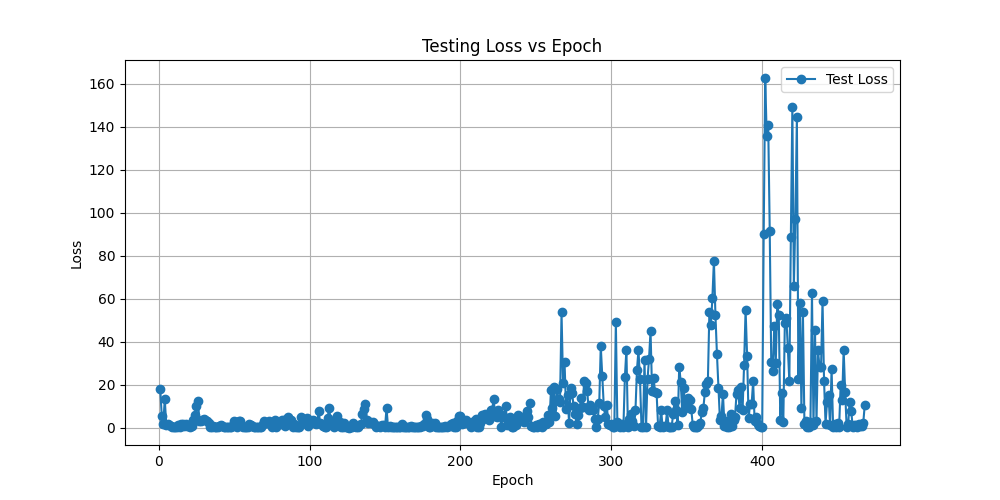
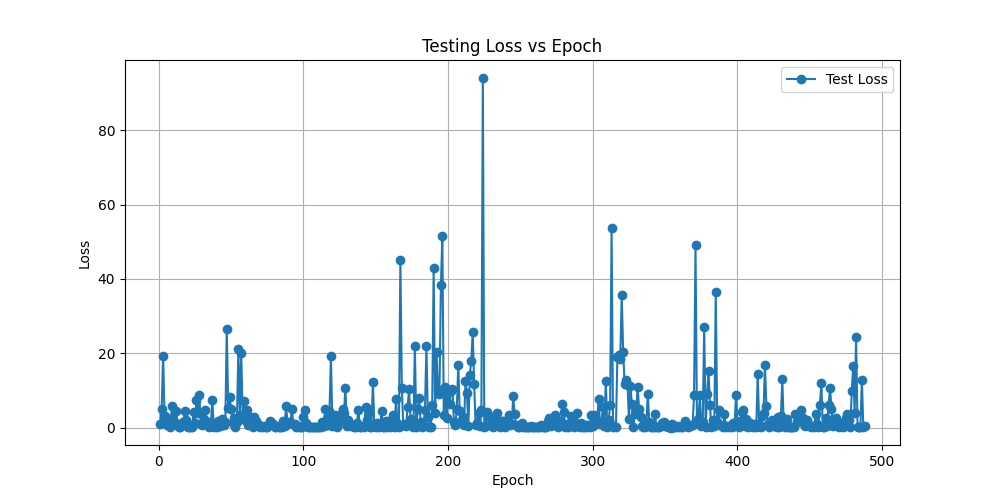
fix normalization & data reading issues

diff --git a/core/model/DenseRMoK.py b/core/model/DenseRMoK.py
@@ -52,17 +52,51 @@ class RevIN(nn.Module):
             x = x * self.affine_weight + self.affine_bias
         return x
 
+    # def _denormalize(self, x):
+    #     # Select the statistics for closing price which is at index 3 in the input.
+    #     # print(f"x_value 1: {x}" )
+    #     # print(f"x_shape: {x.shape}")
+    #     min_target = self.min_val[..., sum(self.indicators_list_01[:-14])+4-1]  # Keepdim so that shape broadcasting works.
+    #     max_target = self.max_val[..., sum(self.indicators_list_01[:-14])+4-1]
+    #     if self.affine:
+    #         x = (x - self.affine_bias) / (self.affine_weight + self.eps)
+
+    #     x = x * (max_target - min_target + self.eps) + min_target
+    #     if x.shape[-1] > 1:
+    #         x = x[..., sum(self.indicators_list_01[:-14])+4-1]
+
+    #     # print(f"x_value 2: {x}" )
+    #     # print(f"x_shape: {x.shape}")
+    #     return x
+    
     def _denormalize(self, x):
-        # Select the statistics for closing price which is at index 3 in the input.
-        min_target = self.min_val[..., sum(self.indicators_list_01[:-14])+4-1]  # Keepdim so that shape broadcasting works.
-        max_target = self.max_val[..., sum(self.indicators_list_01[:-14])+4-1]
+        # Compute the index for the closing price column.
+        # For example: if indicators_list_01 = [...], then the index is calculated as:
+        col_index = sum(self.indicators_list_01[:-14]) + 4 - 1
+
+        # Print raw min and max statistics for the selected column for verification.
+        # print("Min for closing price:", self.min_val[..., col_index])
+        # print("Max for closing price:", self.max_val[..., col_index])
+        
         if self.affine:
             x = (x - self.affine_bias) / (self.affine_weight + self.eps)
 
-        x = x * (max_target - min_target + self.eps) + min_target
+        # Use slicing to extract the correct closing price statistics while preserving the dimension.
+        closing_min = self.min_val[..., col_index:col_index+1]
+        closing_max = self.max_val[..., col_index:col_index+1]
+        
+        # Reverse the normalization: x = normalized_value * (max - min) + min.
+        x = x * (closing_max - closing_min) + closing_min
+
+        # If the last dimension is larger than 1, slice to keep only the closing price column.
         if x.shape[-1] > 1:
-            x = x[..., sum(self.indicators_list_01[:-14])+4-1]
+            x = x[..., col_index:col_index+1]
+        
+        # Print the denormalized closing price data for verification.
+        # print("Selected closing price data:", x)
         return x
+
+    
         
     def set_statistics(self, min_val, max_val):
         self.min_val = min_val
@@ -164,17 +198,27 @@ class DenseRMoK(nn.Module):
     def forward(self, var_x, marker_x):
 
         var_x = var_x[..., 0]  # x: [B, Li, N]
+        # print(f"var_x_shape 1: {var_x.shape}")
         B, L, N = var_x.shape
         var_x = self.rev(var_x, 'norm') if self.rev else var_x
         var_x = self.dropout(var_x).transpose(1, 2).reshape(B * N, L)
+
+        # print(f"var_x: {var_x}")
+        # print(f"var_x_shape 2: {var_x.shape}")
 
         score = F.softmax(self.gate(var_x), dim=-1)  # (BxN, E)
         expert_outputs = torch.stack([self.experts[i](var_x) for i in range(self.num_experts_selected)], dim=-1)  # (BxN, Lo, E)
 
         prediction = torch.einsum("BLE,BE->BL", expert_outputs, score).reshape(B, N, -1).permute(0, 2, 1)
+        # print(f"var_x_shape 3: {prediction.shape}")
+
         prediction = self.final_layer(prediction)
+        # print(f"var_x_shape 4: {prediction.shape}")
+
 
         prediction = self.rev(prediction, 'denorm')
+        # print(f"var_x_shape 5: {prediction.shape}")
+
 
         # ---------- Confidence Estimation ----------
         # Compute variance among expert outputs along the expert dimension.

diff --git a/core/ltsf_runner.py b/core/ltsf_runner.py
@@ -22,9 +22,9 @@ class LTSFRunner(L.LightningModule):
         self.indicators_bool = kargs['indicators_list_01']
         self.dataset_name = kargs['dataset_name']
 
-        stat = np.load(os.path.join(self.hparams.data_root, 'var_scaler_info.npz'))
-        self.register_buffer('min', torch.tensor(stat['min'][np.array(self.indicators_bool).astype(bool)]).float())
-        self.register_buffer('max', torch.tensor(stat['max'][np.array(self.indicators_bool).astype(bool)]).float())
+        # stat = np.load(os.path.join(self.hparams.data_root, 'var_scaler_info.npz'))
+        # self.register_buffer('min', torch.tensor(stat['min'][np.array(self.indicators_bool).astype(bool)]).float())
+        # self.register_buffer('max', torch.tensor(stat['max'][np.array(self.indicators_bool).astype(bool)]).float())
 
         self.train_losses = []
         self.test_losses = []
@@ -110,8 +110,22 @@ class LTSFRunner(L.LightningModule):
         prediction, confidence = self.model(var_x, marker_x)
         prediction = prediction[:, -self.hparams.pred_len:, :]
 
+        
+        # print(f"var_x : {var_x.shape}")
+        # print(f"var_y : {var_y.shape}")
+        # print(f"true : {true.shape}")
+        # print(f"label : {label.shape}")
+
         # true_price_today is now directly taken from the closing price, which is at index 3 in the original var_x.
-        true_price_today = true[:, -1, 0]
+        # true_price_today = true[:, -1, 0]
+        #print(f"label : {label}")
+        
+        true_price_today = var_x[:,-1,sum(self.indicators_bool[:-14])+4-1]
+
+        # print(f"true_price_today : {true_price_today.shape}")
+        # print(f"true_price_today : {true_price_today}")
+
+
         # var_x[:, -1, 3], 
 
         return prediction, label, true_price_today, confidence

diff --git a/core/data_runner.py b/core/data_runner.py
@@ -54,9 +54,9 @@ class GeneralTSFDataset(Dataset):
         var_x = self.var[hist_start:hist_end, ...]
         marker_x = self.time_marker[hist_start:hist_end, ...]
 
-        #var_y = self.var[hist_end:pred_end, 3, 0]
-        var_y = self.norm_closing[hist_end:pred_end, ...]
-        var_y = var_y[:, np.newaxis]  # Shape: (pred_len, 1, 1)
+        var_y = self.var[hist_end:pred_end, sum(self.indicators_bool[:-14])+4-1, 0]
+        #var_y = self.norm_closing[hist_end:pred_end, ...]
+        var_y = var_y[:, np.newaxis, np.newaxis]  # Shape: (pred_len, 1, 1)
         marker_y = self.time_marker[hist_end:pred_end, ...]
 
         true = self.norm_closing[:, :, np.newaxis][hist_start:hist_end, ...]

diff --git a/train.py b/train.py
@@ -362,7 +362,7 @@ if __name__ == '__main__':
     parser = argparse.ArgumentParser()
     parser.add_argument("-d", "--data_root", default="dataset", type=str, help="data root")
     parser.add_argument("-s", "--save_root", default="save", type=str, help="save root")
-    parser.add_argument("--devices", default='0,', type=str, help="device' id to use")
+    parser.add_argument("--devices", default=1, type=int, help="device' id to use")
     parser.add_argument("--use_wandb", default=0, type=int, help="use wandb")
     parser.add_argument("--seed", type=int, default=1, help="seed")
     parser.add_argument("--model_name", default="DenseRMoK", type=str, help="Model name")
